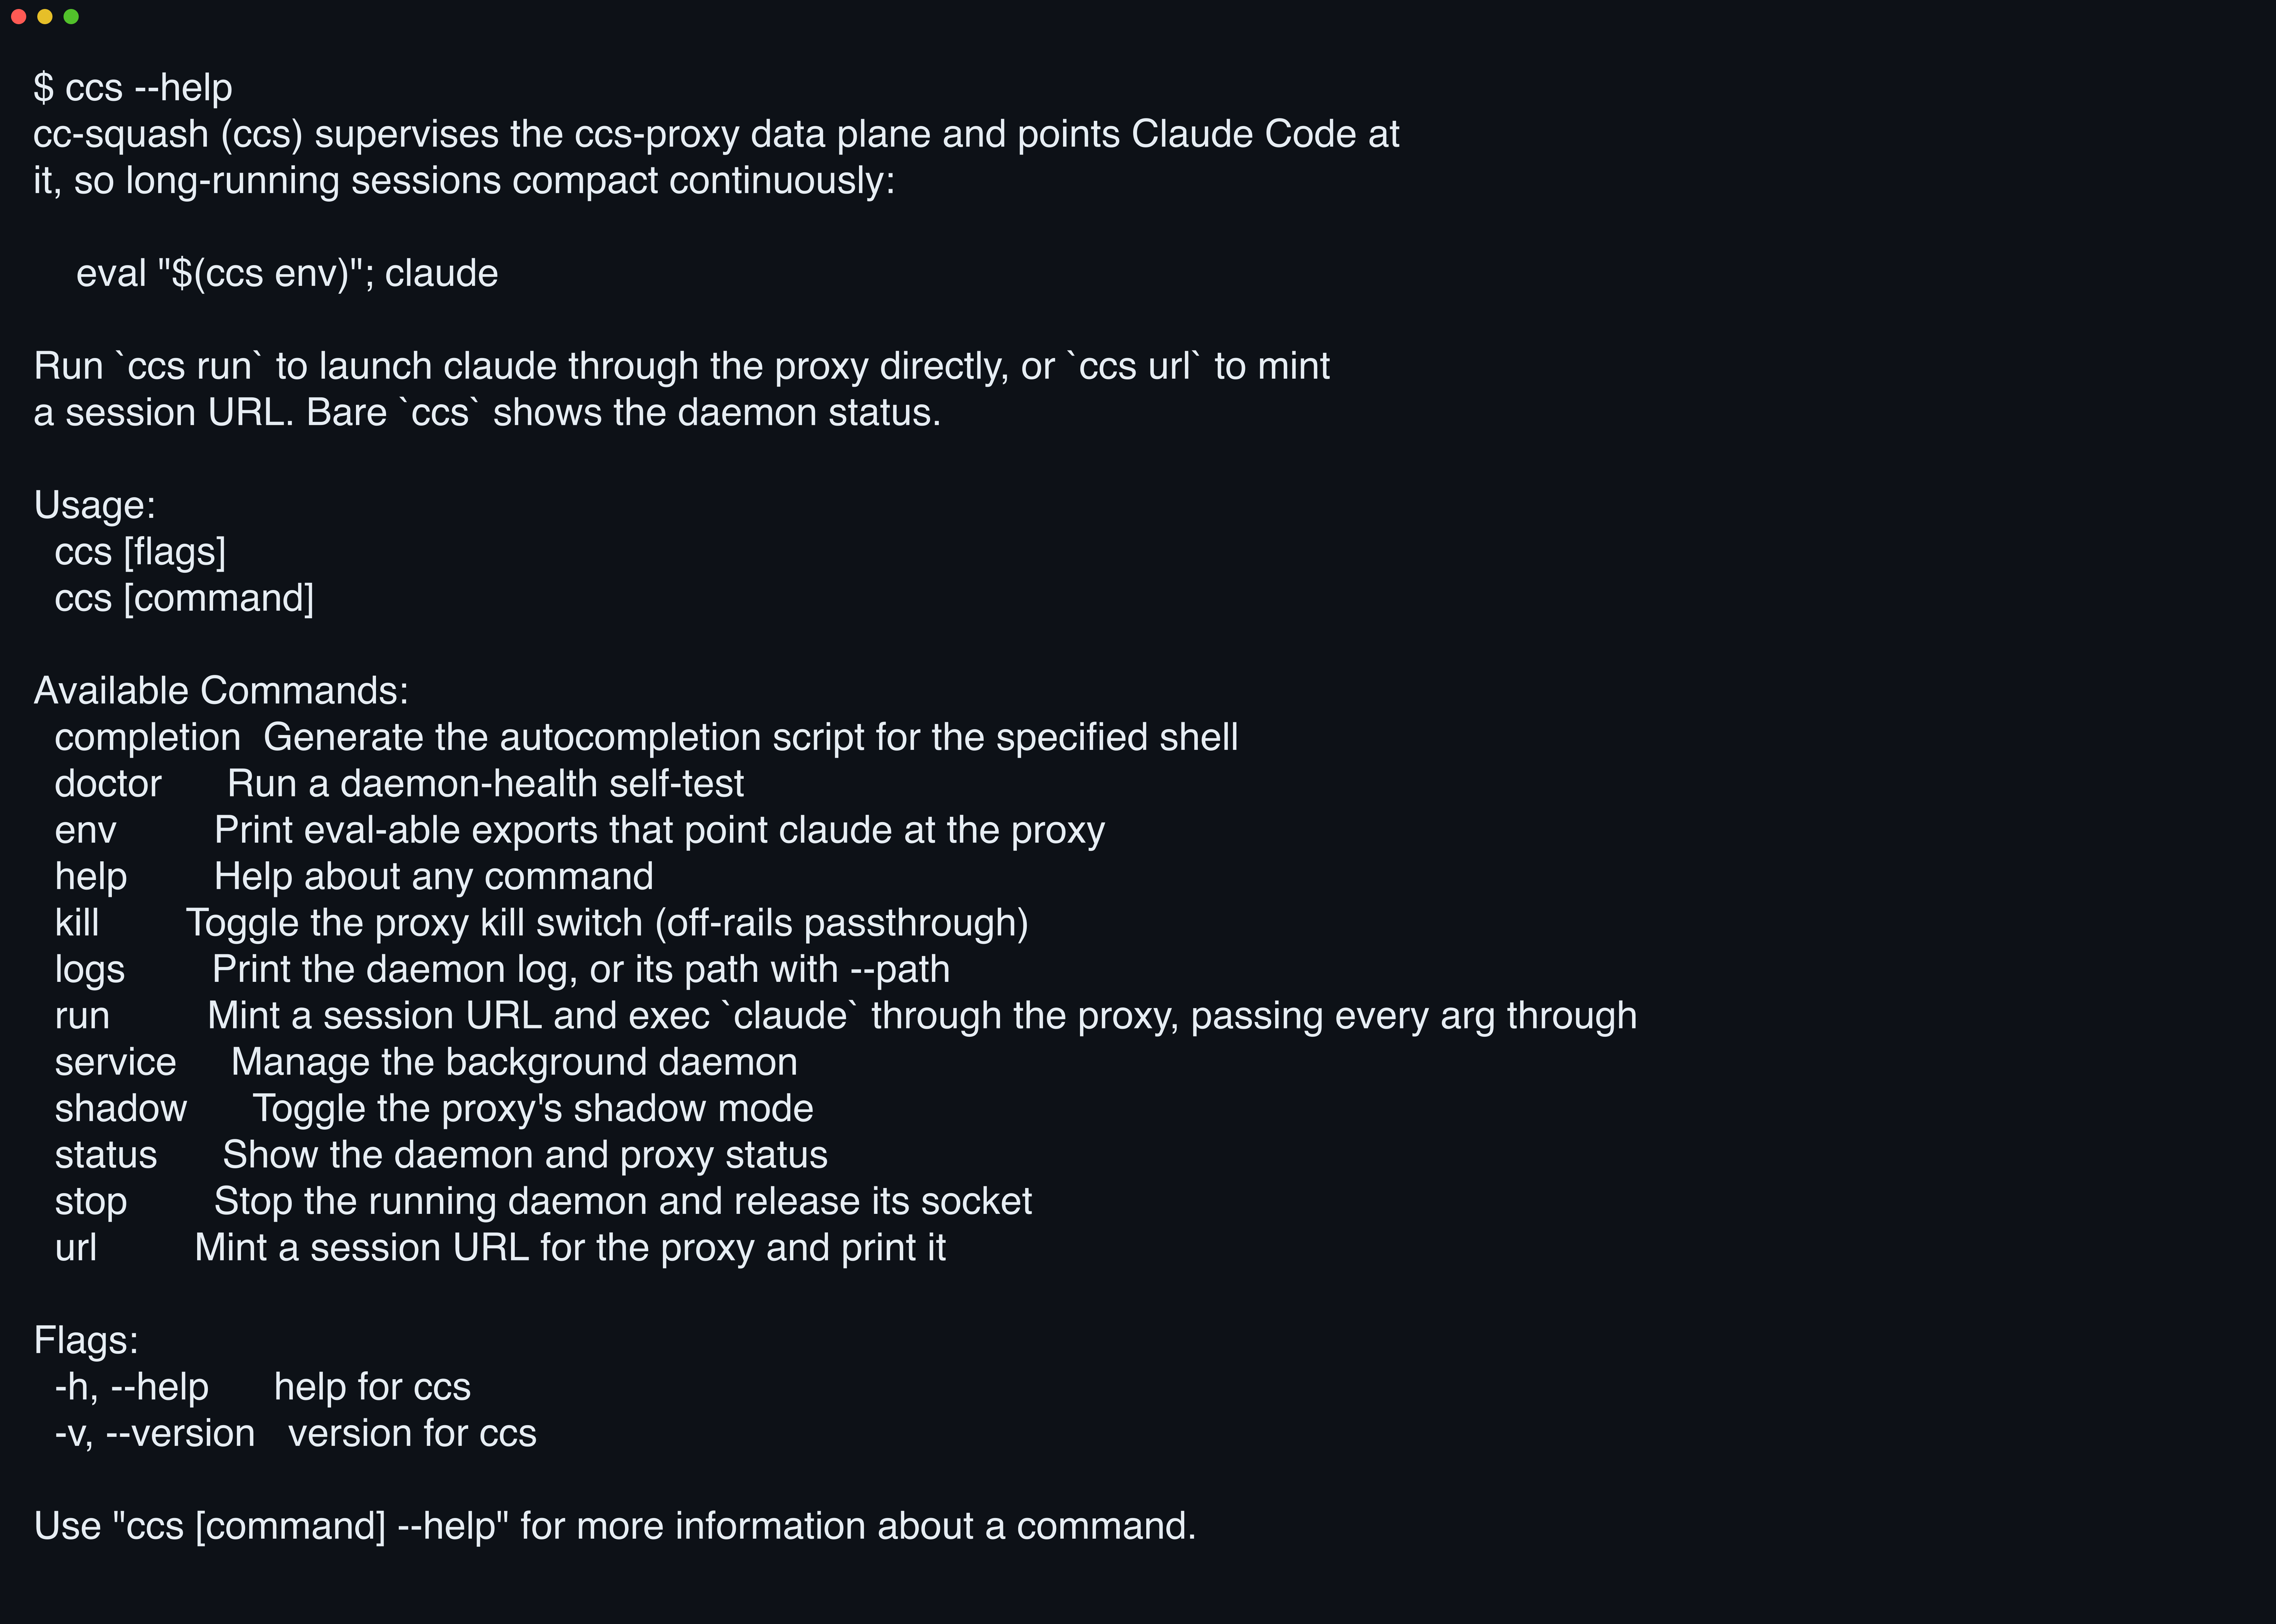
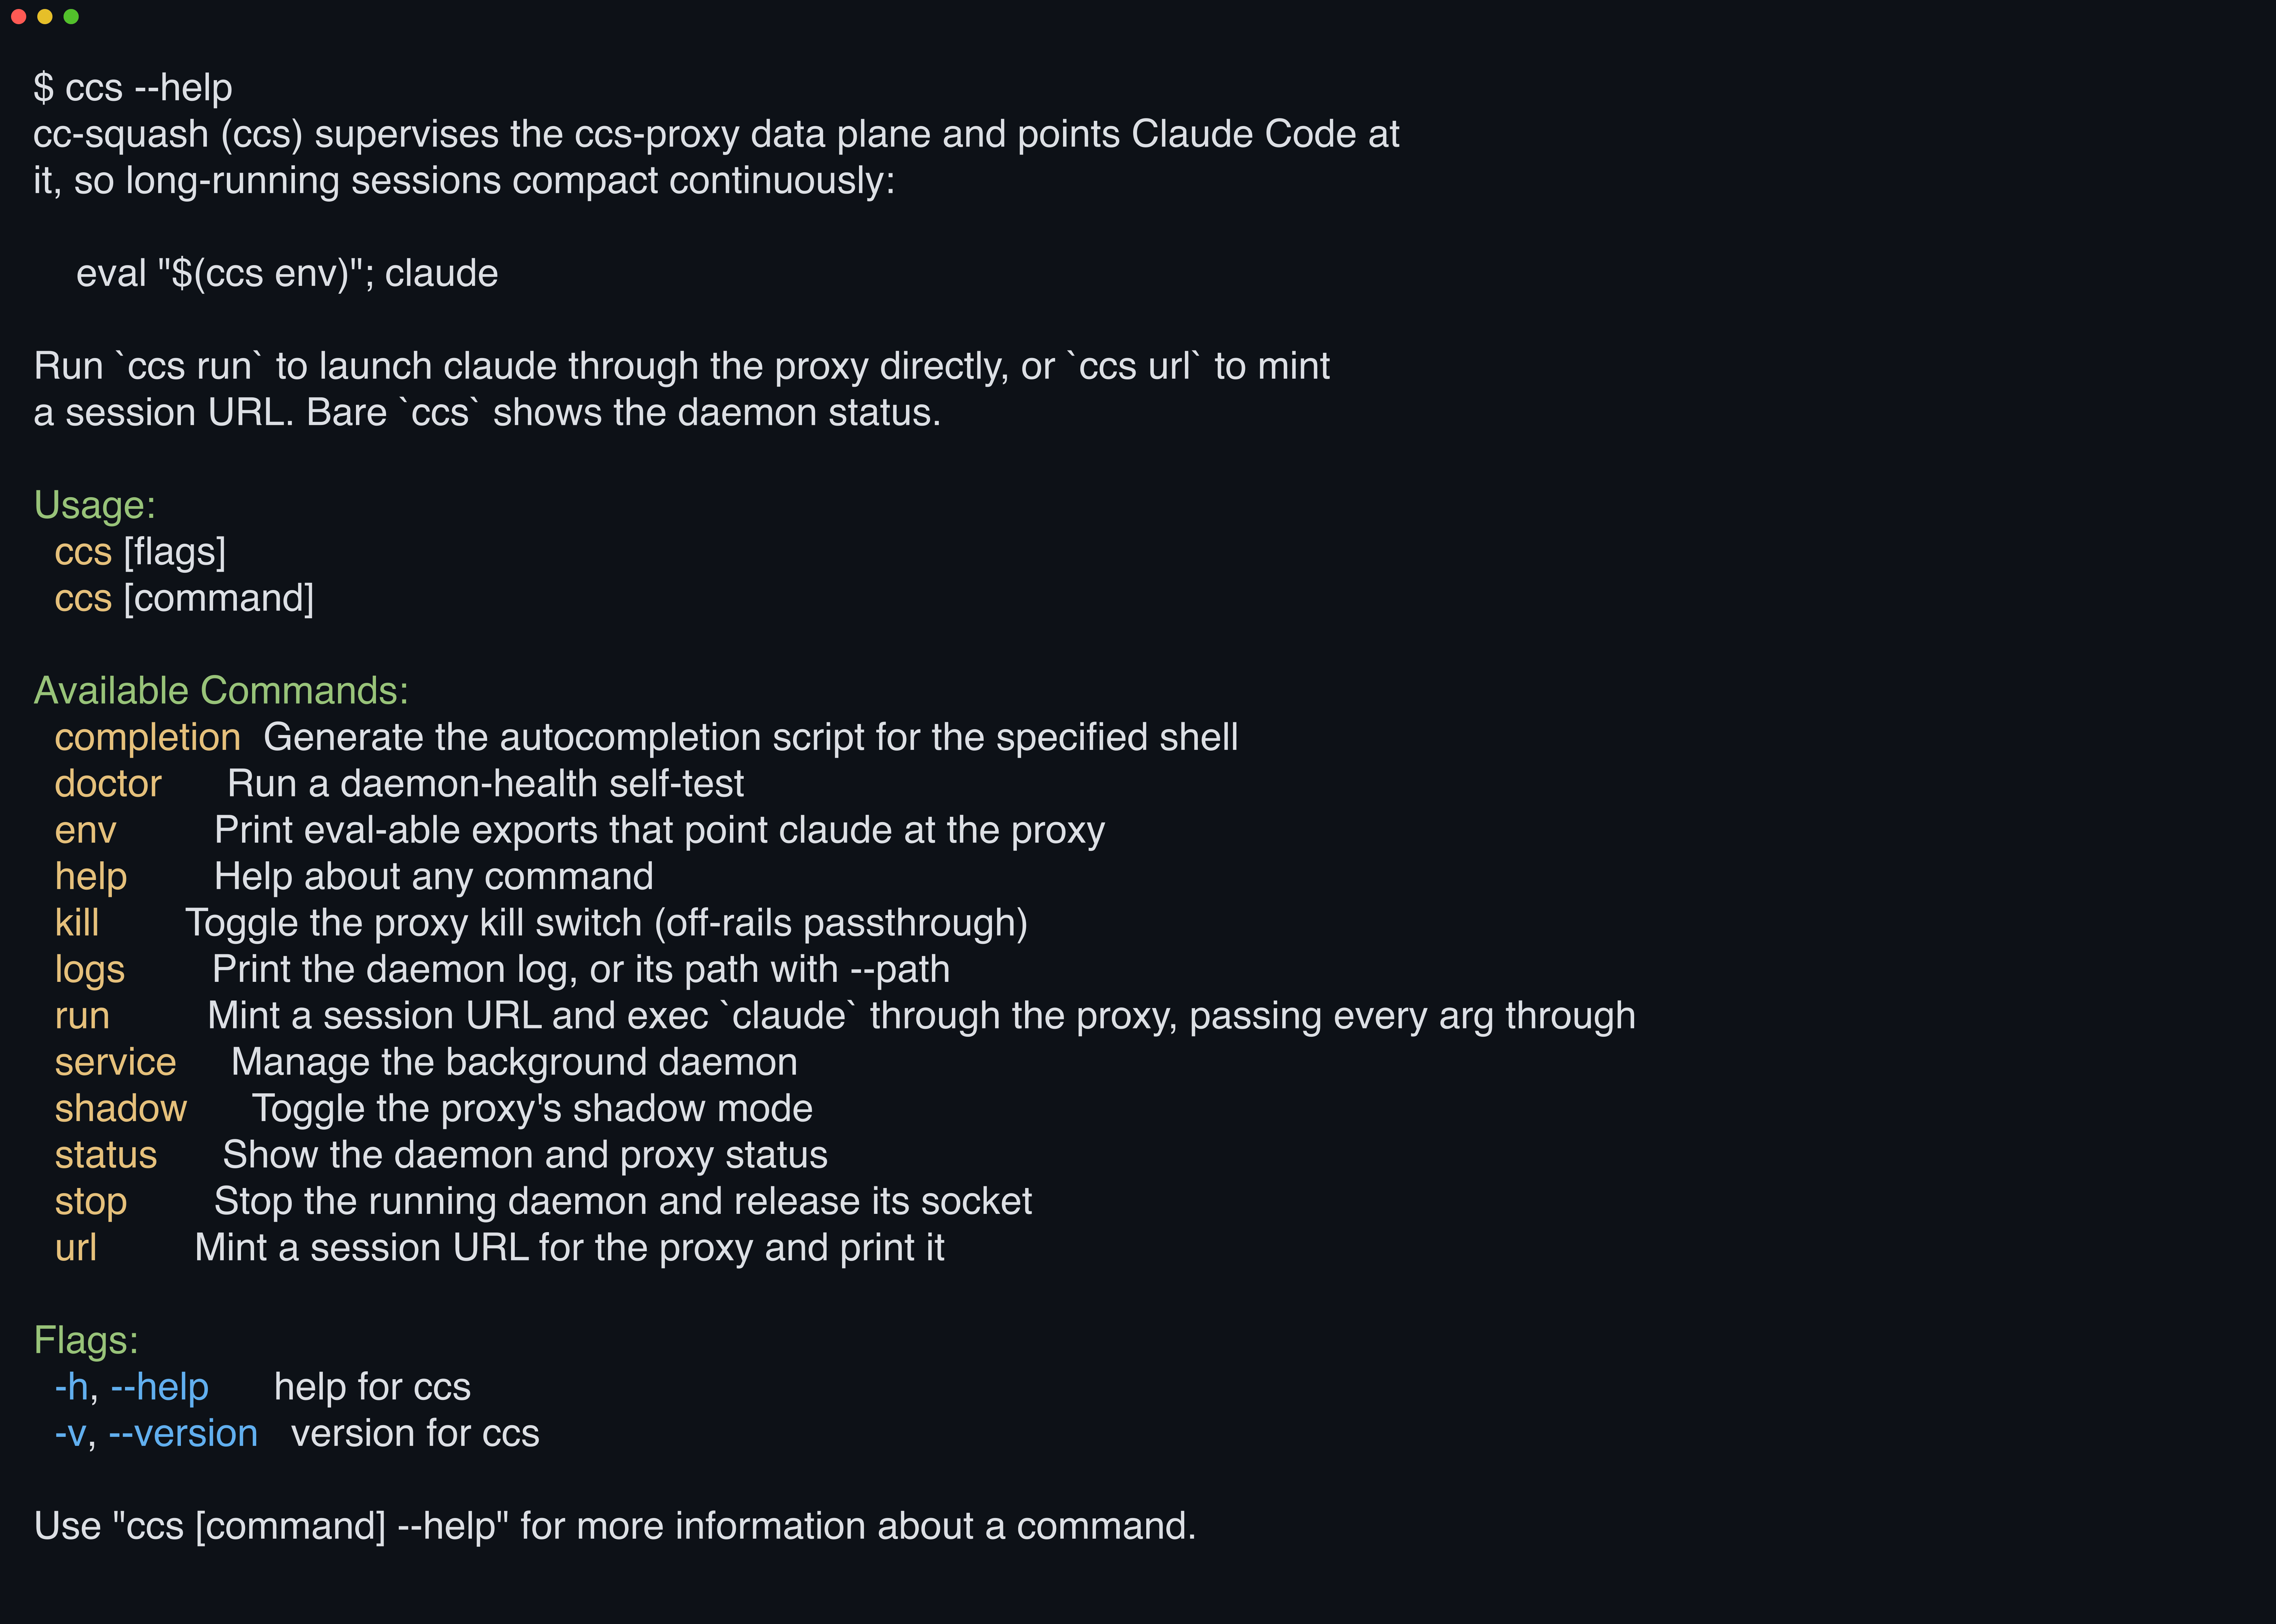
docs: colorize demo screenshot via bat + freeze ansi; de-promise stub docs site in README agent block

diff --git a/README.md b/README.md
@@ -4,7 +4,7 @@
 
 [![CI](https://github.com/yasyf/cc-squash/actions/workflows/ci.yml/badge.svg)](https://github.com/yasyf/cc-squash/actions/workflows/ci.yml)
 [![Release](https://img.shields.io/github/v/release/yasyf/cc-squash)](https://github.com/yasyf/cc-squash/releases)
-[![License: PolyForm Noncommercial](https://img.shields.io/badge/license-PolyForm--Noncommercial--1.0.0-blue)](LICENSE)
+[![PolyForm Noncommercial license](https://img.shields.io/badge/license-PolyForm--Noncommercial--1.0.0-blue)](LICENSE)
 
 ## Get started
 
@@ -22,7 +22,8 @@ Driving with an agent? Paste this:
 ```text
 Install cc-squash: `brew install yasyf/tap/cc-squash`, then `brew services start cc-squash`.
 Run `ccs doctor` to verify the daemon, then `ccs shadow on` so the proxy logs what compaction would keep, summarize, and drop without touching live traffic.
-Tell me to relaunch Claude Code as `ccs run` once the shadow ledger looks right. Docs: https://yasyf.github.io/cc-squash/
+Tell me to relaunch Claude Code as `ccs run` once the shadow ledger looks right.
+Docs: https://github.com/yasyf/cc-squash#readme, plus `ccs <command> --help`.
 ```
 
 ---
@@ -31,7 +32,7 @@ Tell me to relaunch Claude Code as `ccs run` once the shadow ledger looks right.
 
 ### Keep a day-long session on thread past the auto-compact cliff
 
-Claude Code compacts in one shot: the session hits a threshold and everything — the constraints you set, the decisions you argued out, the files in flight — flattens into a single lossy summary. cc-squash compacts continuously instead:
+Claude Code compacts in one shot. The session hits a threshold, and the constraints you set, the decisions you argued out, and the files in flight all flatten into a single lossy summary. cc-squash compacts continuously instead:
 
 ```bash
 ccs run
@@ -41,7 +42,7 @@ Every request gets repriced segment by segment on its way to Anthropic. Stale to
 
 ### Pull any squashed file or tool result back mid-session
 
-Compaction is normally a one-way door — whatever the summary dropped is gone. cc-squash content-addresses every squash into a local store first, and the placeholder it leaves behind tells the model how to reverse it:
+Compaction is normally a one-way door; whatever the summary dropped is gone. cc-squash content-addresses every squash into a local store first, and the placeholder it leaves behind tells the model how to reverse it:
 
 ```text
 [cc-squash: squashed segment · ref=sha256:9f2b… · ~2050 tokens · 8210 bytes]
@@ -71,10 +72,10 @@ Per-command flags live in `ccs <command> --help`.
 |---|---|
 | `ccs run [claude args…]` | Mint a session and exec `claude` through the proxy; args pass through verbatim |
 | `ccs env` | Print eval-able exports for shells that launch `claude` themselves |
-| `ccs url` | Mint a session URL and print it (`ANTHROPIC_BASE_URL=$(ccs url)`) |
+| `ccs url` | Mint a session URL for `ANTHROPIC_BASE_URL=$(ccs url)` and print it |
 | `ccs status` | Daemon and proxy status; bare `ccs` prints the same table, `--json` the raw snapshot |
-| `ccs shadow on\|off` | Log-only mode: compute squash decisions without altering traffic |
-| `ccs kill on\|off\|status` | Kill switch: raw passthrough, compaction off |
+| `ccs shadow on\|off` | Log-only mode that computes squash decisions without altering traffic |
+| `ccs kill on\|off\|status` | Kill switch, raw passthrough with compaction off |
 | `ccs doctor` | Daemon-health self-test |
 | `ccs logs` | Print the daemon log, or its path with `--path` |
 | `ccs stop` | Stop the daemon and release its socket |
@@ -82,8 +83,8 @@ Per-command flags live in `ccs <command> --help`.
 
 ## How it works
 
-A Go control plane (`ccs`) supervises a Rust data plane (`ccs-proxy`) that sits at `ANTHROPIC_BASE_URL` and owns every `/v1/messages` body. Deterministic passes compress what survives losslessly; an economics model prices each remaining segment — what it costs to keep carrying versus what it costs to re-fetch — and evicted segments land content-addressed in a local SQLite ref store, replaced on the wire by the placeholder above. Squashes land at prompt-cache breakpoints, so compaction doesn't torch your cache hits.
+A Go control plane (`ccs`) supervises a Rust data plane (`ccs-proxy`) that sits at `ANTHROPIC_BASE_URL` and owns every `/v1/messages` body. Deterministic passes compress what survives losslessly; an economics model prices each remaining segment on what it costs to keep carrying versus what it costs to re-fetch, and evicted segments land content-addressed in a local SQLite ref store, replaced on the wire by the placeholder above. Squashes land at prompt-cache breakpoints, so compaction doesn't torch your cache hits.
 
-Status: early — v0.1.x, macOS via Homebrew. The engine runs live; shadow mode exists so you don't have to take that claim on faith.
+cc-squash is early, at v0.1.x on macOS via Homebrew. The engine runs live; shadow mode exists so you don't have to take that claim on faith.
 
 Licensed under [PolyForm Noncommercial 1.0.0](LICENSE).